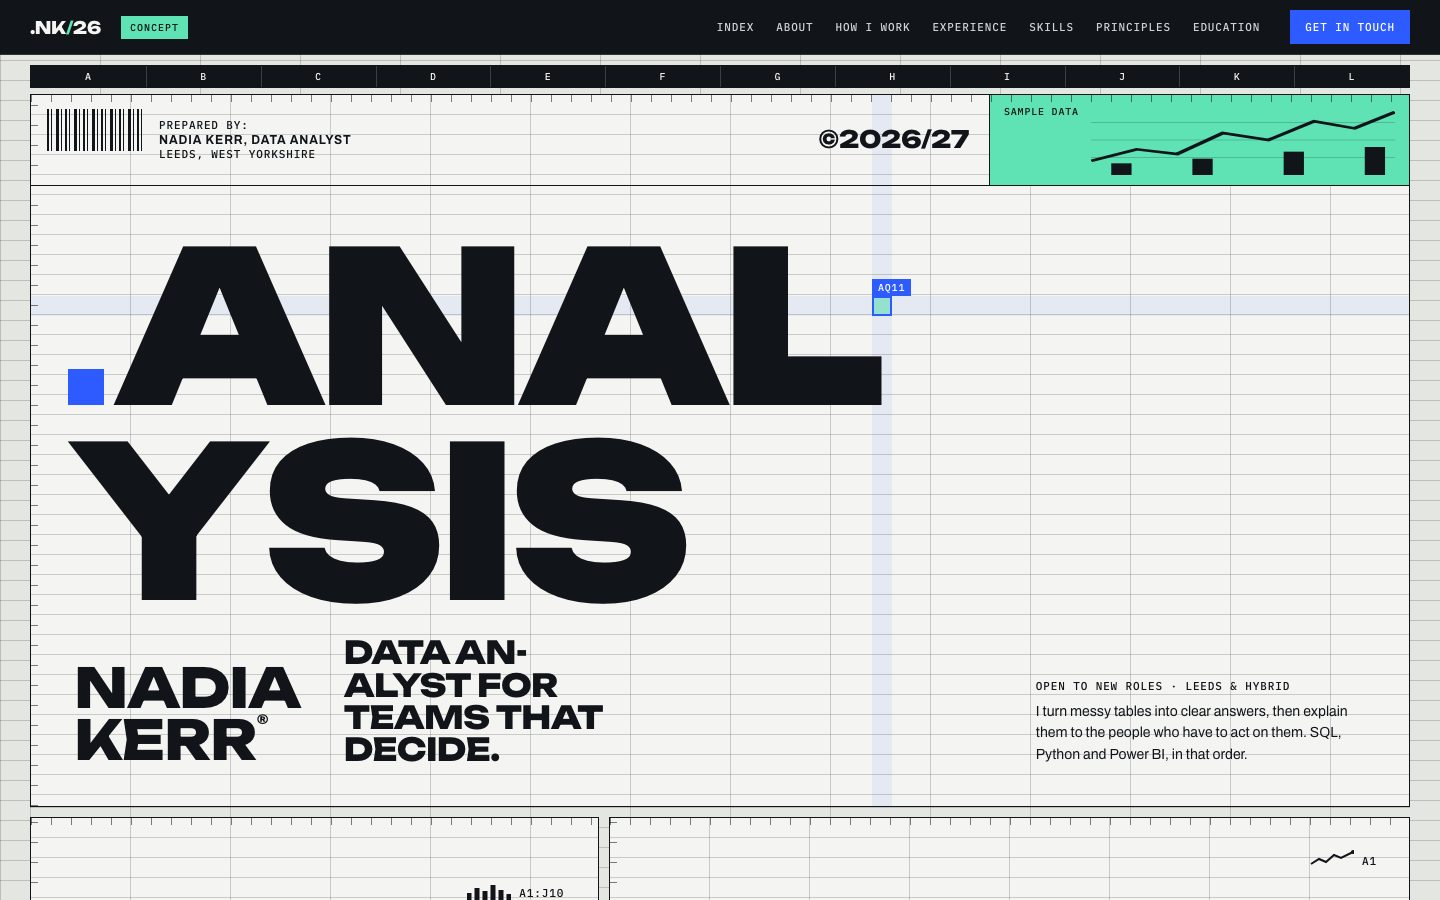
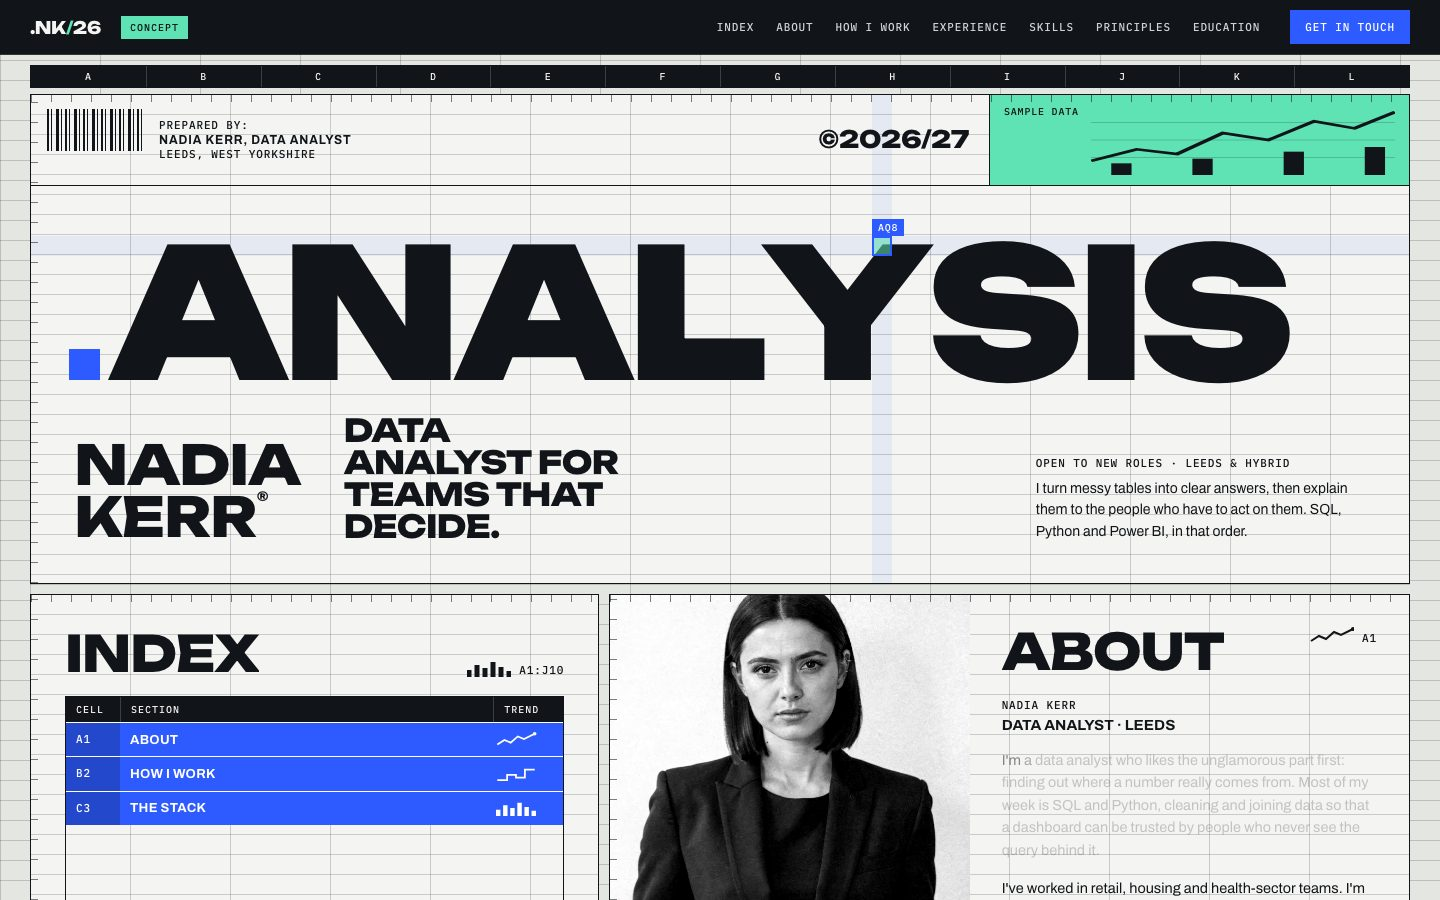
Nadia: ANALYSIS on one line (sized to its box at every width), and "analyst" no longer split

Changed region(s): [[0.0, 0.2178, 0.9688, 1.0], [0.7188, 0.4978, 0.9375, 0.5911], [0.9062, 0.6844, 0.9375, 0.7156]]

diff --git a/site/public/concepts/nadia/index.html b/site/public/concepts/nadia/index.html
@@ -86,10 +86,10 @@ section,div[id]{scroll-margin-top:84px}
 .cover-spark svg{flex:1;height:70px}
 .cover-spark .m{font-size:10px;white-space:nowrap;align-self:flex-start}
 .cover-body{padding:clamp(18px,3vw,44px) clamp(16px,3vw,44px) clamp(22px,3vw,40px);display:grid;gap:12px}
-.mark{font-weight:900;font-size:clamp(50px,min(19.2vw,23.5vh),272px);line-height:.92;letter-spacing:-.04em;margin-left:-.03em}
+.cover-body{container-type:inline-size}
+.mark{font-weight:900;font-size:clamp(30px,min(14cqw,36vh),272px);white-space:nowrap;line-height:.92;letter-spacing:-.04em;margin-left:-.03em}
 .mark>span{display:block;clip-path:inset(0 -8% 0 -8%)}
 .mark .dot{display:inline-block;width:.17em;height:.17em;background:var(--blue);margin-right:.05em;vertical-align:baseline}
-.mark .hy{color:var(--blue)}
 .cover-row{display:flex;gap:clamp(14px,3vw,48px);align-items:flex-end;flex-wrap:wrap;margin-top:6px}
 .cover-name{font-size:clamp(22px,3.8vw,56px);line-height:.95}
 .cover-name sup{font-size:.28em;vertical-align:top}
@@ -336,7 +336,6 @@ footer .in{max-width:1400px;margin:0 auto;padding:0 var(--gap);display:flex;just
   .cols span{font-size:9px;letter-spacing:0}
   .cover-top{grid-template-columns:auto 1fr}.cover-top .yr,.cover-spark{display:none}
   .barcode{width:64px}.cover-meta{margin-left:0}
-  .mark{font-size:20.5vw}
   .about{grid-template-columns:1fr}.about .frame{min-height:340px;order:-1}
   .rings{grid-template-columns:1fr}
   .role,.roles .th{grid-template-columns:1fr}.roles .th span:nth-child(n+2){display:none}
@@ -353,7 +352,6 @@ footer .in{max-width:1400px;margin:0 auto;padding:0 var(--gap);display:flex;just
   .card{min-height:0}
 }
 @media (prefers-reduced-motion:no-preference){
-  .mark .hy{animation:blink 1.6s steps(1) infinite}
   @keyframes blink{50%{opacity:0}}
 }
 @media (prefers-reduced-motion:reduce){html{scroll-behavior:auto}}
@@ -417,12 +415,11 @@ footer .in{max-width:1400px;margin:0 auto;padding:0 var(--gap);display:flex;just
   </div>
   <div class="cover-body">
     <h1 class="mark d" aria-label="Analysis">
-      <span><i class="dot"></i>ANAL<span class="hy">-</span></span>
-      <span>YSIS</span>
+      <span><i class="dot"></i>ANALYSIS</span>
     </h1>
     <div class="cover-row">
       <div class="cover-name d">Nadia<br>Kerr<sup>&reg;</sup></div>
-      <div class="cover-tag d">Data an-<br>alyst for<br>teams that<br>decide.</div>
+      <div class="cover-tag d">Data<br>analyst for<br>teams that<br>decide.</div>
       <p class="cover-meta"><span class="m">Open to new roles &middot; Leeds &amp; hybrid</span>I turn messy tables into clear answers, then explain them to the people who have to act on them. SQL, Python and Power BI, in that order.</p>
     </div>
   </div>
